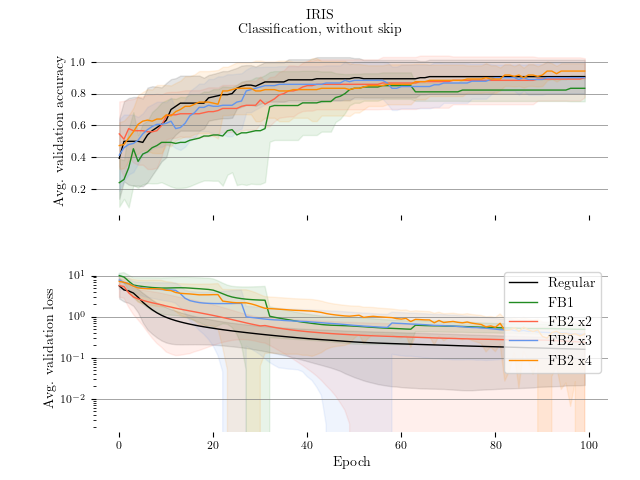
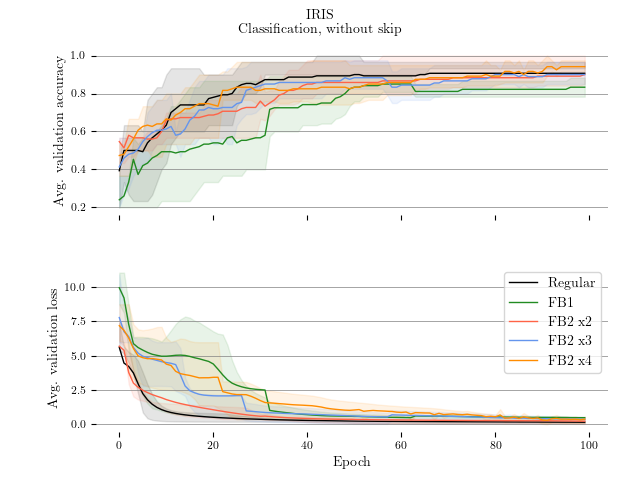
Quantile instead of +- std.

diff --git a/documentation/comparison.py b/documentation/comparison.py
@@ -78,7 +78,8 @@ for problem in os.listdir("./output/compare/"):
                     for l in _loss
                 ]
                 loss = np.nanmean(_loss, axis=0)
-                lstd = np.nanstd(_loss, axis=0)
+                lloss = np.nanpercentile(_loss, 25, axis=0)
+                uloss = np.nanpercentile(_loss, 75, axis=0)
                 ax_loss.plot(
                     loss,
                     label=name,
@@ -87,12 +88,11 @@ for problem in os.listdir("./output/compare/"):
                 )
                 ax_loss.fill_between(
                     range(len(loss)),
-                    loss - lstd,
-                    loss + lstd,
+                    lloss,
+                    uloss,
                     alpha=0.1,
                     color=_COLOUR[configuration.split("-")[0]]
                 )
-                ax_loss.set_yscale('log')
 
                 _accr = [
                     data[configuration][run]["train"]["val-acc"]
@@ -104,7 +104,8 @@ for problem in os.listdir("./output/compare/"):
                     for a in _accr
                 ]
                 accr = np.nanmean(_accr, axis=0)
-                astd = np.nanstd(_accr, axis=0)
+                laccr = np.nanpercentile(_accr, 25, axis=0)
+                uaccr = np.nanpercentile(_accr, 75, axis=0)
                 ax_acc.plot(
                     accr,
                     label=name,
@@ -113,15 +114,18 @@ for problem in os.listdir("./output/compare/"):
                 )
                 ax_acc.fill_between(
                     range(len(accr)),
-                    accr - astd,
-                    accr + astd,
+                    laccr,
+                    uaccr,
                     alpha=0.1,
                     color=_COLOUR[configuration.split("-")[0]]
                 )
 
                 accr = accr[~np.isnan(accr)]
+                astd = np.nanstd(_accr, axis=0)
                 astd = astd[~np.isnan(astd)]
+
                 loss = loss[~np.isnan(loss)]
+                lstd = np.nanstd(_loss, axis=0)
                 lstd = lstd[~np.isnan(lstd)]
 
                 if which == "CLASSIFICATION":
@@ -160,8 +164,6 @@ for problem in os.listdir("./output/compare/"):
                                 continue
                             probed[metric].append(data[configuration][run]["no-feedback"][metric])
 
-                    print(probed)
-
                     accr = probed["tst-acc"]
                     loss = probed["tst-loss"]
 
@@ -179,6 +181,9 @@ for problem in os.listdir("./output/compare/"):
                 plt.close(fig)
                 os.remove(tex) if os.path.exists(tex) else None
                 continue
+            ax_loss.set_ylim(top=3000
+                             if max(ax_loss.get_ylim()) > 3000
+                             else max(ax_loss.get_ylim()))
             ax_loss.legend(loc='upper right', prop=font)
             ax_loss.set_xlabel('Epoch', fontproperties=font)
             ax_loss.set_ylabel('Avg. validation loss', fontproperties=font)
